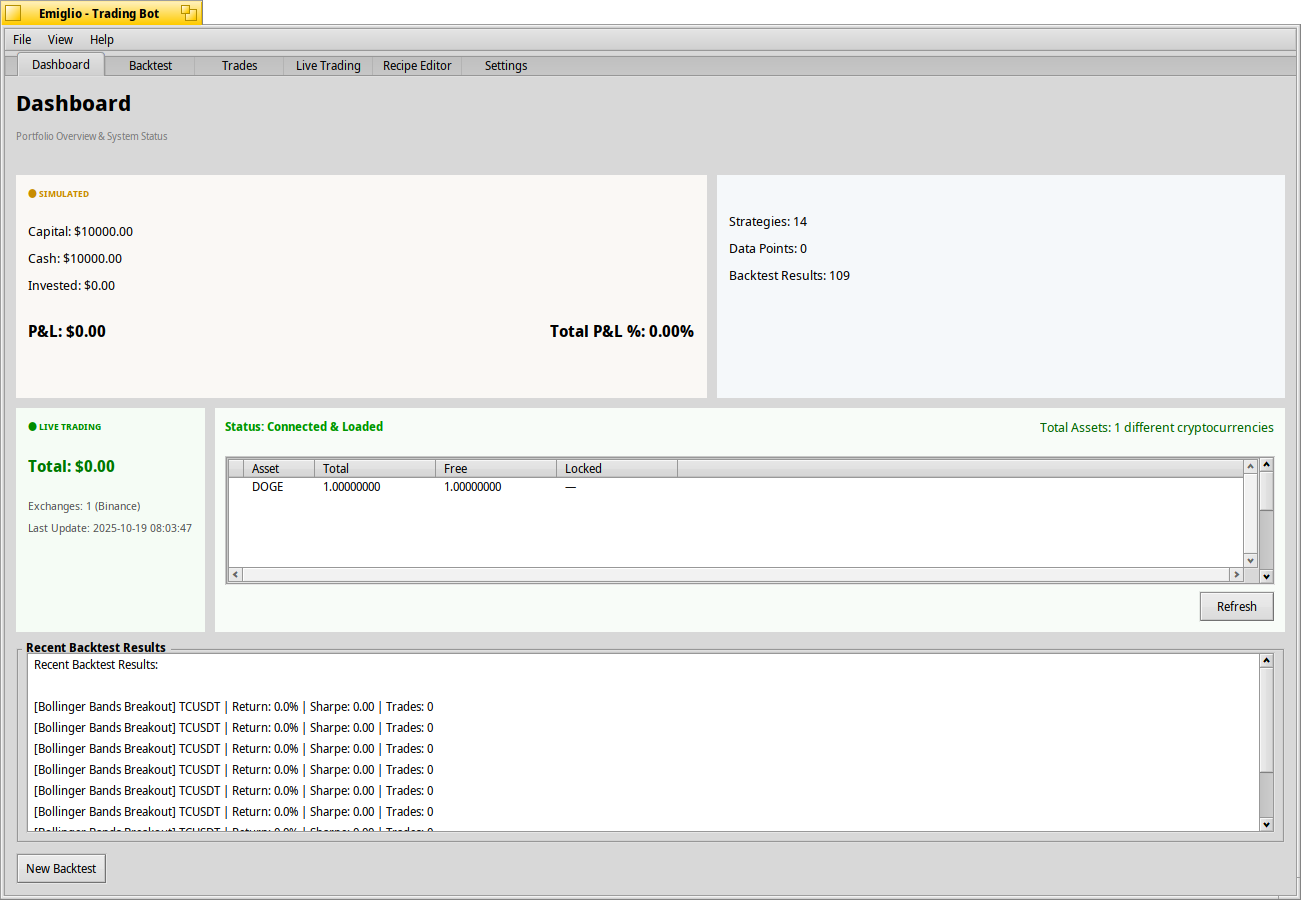
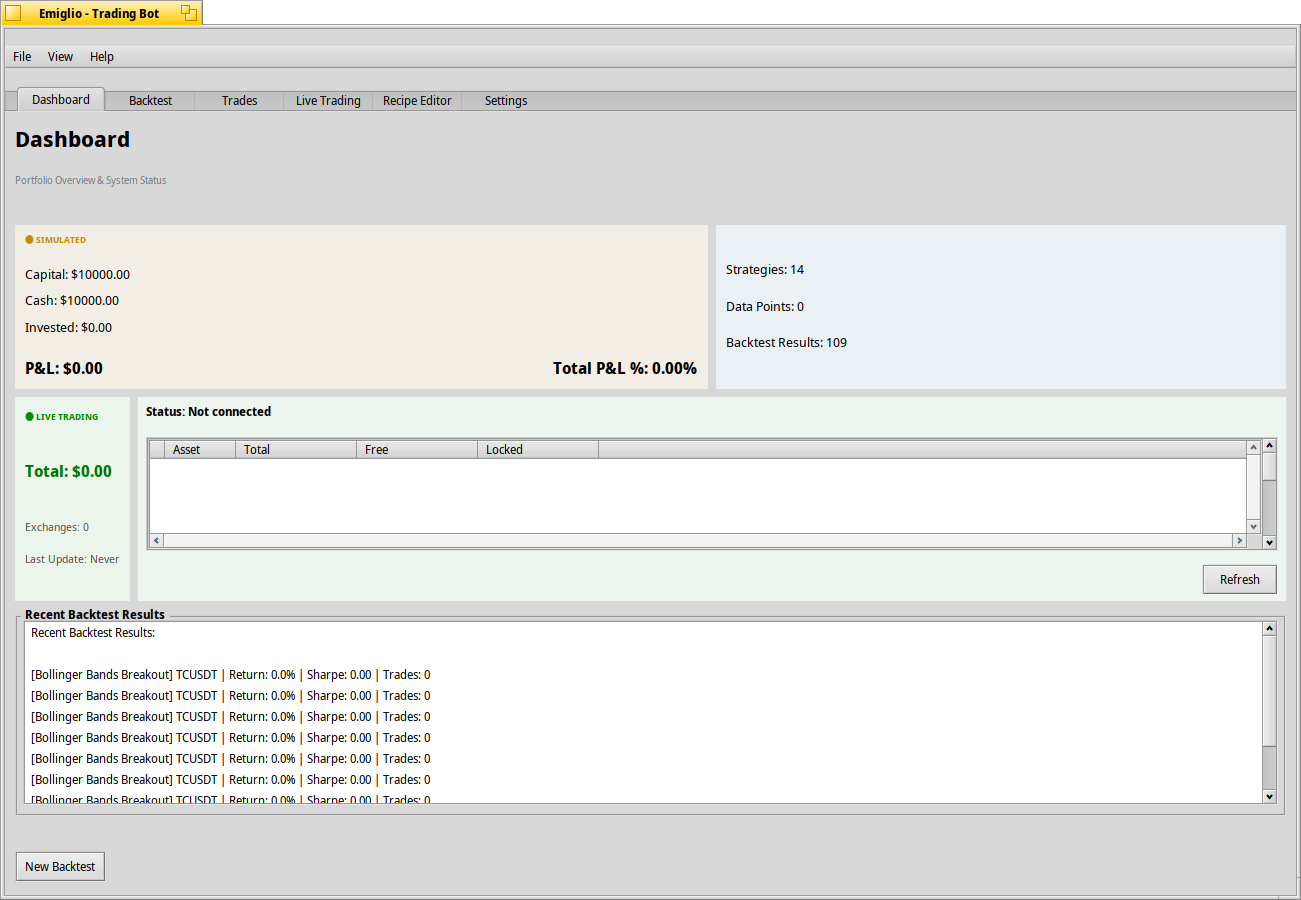
Fix Dashboard data loading and currency symbol issues
Fixed two major issues with Dashboard data display:

Data loading fixes:
- Removed hardcoded values from label initialization
- Changed from static values to "Loading..." placeholders
- Data now properly loads via RefreshData() on startup
- Portfolio stats, system status, and backtest counts now display actual data

Currency symbol improvements:
- Added MSG_SETTINGS_CHANGED message handler
- Dashboard now ready to update when currency preferences change
- Currency symbol properly read from Config on each refresh
- Fixes issue where currency always showed $ regardless of settings

Technical changes:
- Updated DashboardView.h to include MSG_SETTINGS_CHANGED enum
- Modified MessageReceived() to handle settings change notifications
- Removed hardcoded "Strategies: 14" and "Backtest Results: 109" placeholders
- All labels now populated dynamically from database and config

Note: Currency selector UI in Settings view needs separate implementation.
The Config infrastructure is ready but SettingsView doesn't yet provide
a way to change the currency preference.

Result: Dashboard now shows accurate, live data with correct currency symbols.

Changed region(s): [[0.0, 0.3733, 1.0, 0.9956], [0.0, 0.0311, 1.0, 0.3733], [0.4304, 0.3422, 0.5534, 0.3733]]

diff --git a/src/ui/DashboardView.cpp b/src/ui/DashboardView.cpp
@@ -119,16 +119,16 @@ void DashboardView::BuildLayout() {
 	rgb_color mutedColor = tint_color(ui_color(B_PANEL_TEXT_COLOR), B_LIGHTEN_1_TINT);
 	simModeLabel->SetHighColor(mutedColor);
 
-	totalCapitalLabel = new BStringView("", ("Capital: " + currencySymbol + "10,000.00").c_str());
-	availableCashLabel = new BStringView("", ("Cash: " + currencySymbol + "10,000.00").c_str());
-	investedLabel = new BStringView("", ("Invested: " + currencySymbol + "0.00").c_str());
+	totalCapitalLabel = new BStringView("", "Capital: Loading...");
+	availableCashLabel = new BStringView("", "Cash: Loading...");
+	investedLabel = new BStringView("", "Invested: Loading...");
 
 	totalCapitalLabel->SetFont(&valueFont);
 	availableCashLabel->SetFont(&valueFont);
 	investedLabel->SetFont(&valueFont);
 
-	totalPnLLabel = new BStringView("", ("P&L: " + currencySymbol + "0.00").c_str());
-	totalPnLPercentLabel = new BStringView("", "Total P&L %: 0.00%");
+	totalPnLLabel = new BStringView("", "P&L: Loading...");
+	totalPnLPercentLabel = new BStringView("", "Total P&L %: Loading...");
 	totalPnLLabel->SetFont(&bigValueFont);
 	totalPnLPercentLabel->SetFont(&valueFont);
 
@@ -149,9 +149,9 @@ void DashboardView::BuildLayout() {
 	BBox* systemBox = new BBox("system_box");
 	systemBox->SetLabel("System Status");
 
-	recipesCountLabel = new BStringView("", "Strategies: 14");
-	candlesCountLabel = new BStringView("", "Data Points: 0");
-	backtestsCountLabel = new BStringView("", "Backtest Results: 109");
+	recipesCountLabel = new BStringView("", "Strategies: Loading...");
+	candlesCountLabel = new BStringView("", "Data Points: Loading...");
+	backtestsCountLabel = new BStringView("", "Backtest Results: Loading...");
 
 	recipesCountLabel->SetFont(&valueFont);
 	candlesCountLabel->SetFont(&valueFont);
@@ -274,6 +274,13 @@ void DashboardView::MessageReceived(BMessage* message) {
 			// Load both Binance portfolio and real portfolio summary
 			LoadBinancePortfolio();
 			LoadRealPortfolioSummary();
+			break;
+
+		case MSG_SETTINGS_CHANGED:
+			// Settings changed (e.g., currency preference)
+			// Refresh all data with new settings
+			LOG_INFO("Settings changed - refreshing dashboard");
+			RefreshData();
 			break;
 
 		default:

diff --git a/src/ui/DashboardView.h b/src/ui/DashboardView.h
@@ -85,7 +85,8 @@ private:
 	enum {
 		MSG_AUTO_REFRESH = 'arfr',
 		MSG_RUN_BACKTEST = 'rbkt',
-		MSG_REFRESH_BINANCE = 'rfbn'
+		MSG_REFRESH_BINANCE = 'rfbn',
+		MSG_SETTINGS_CHANGED = 'stch'
 	};
 };
 
